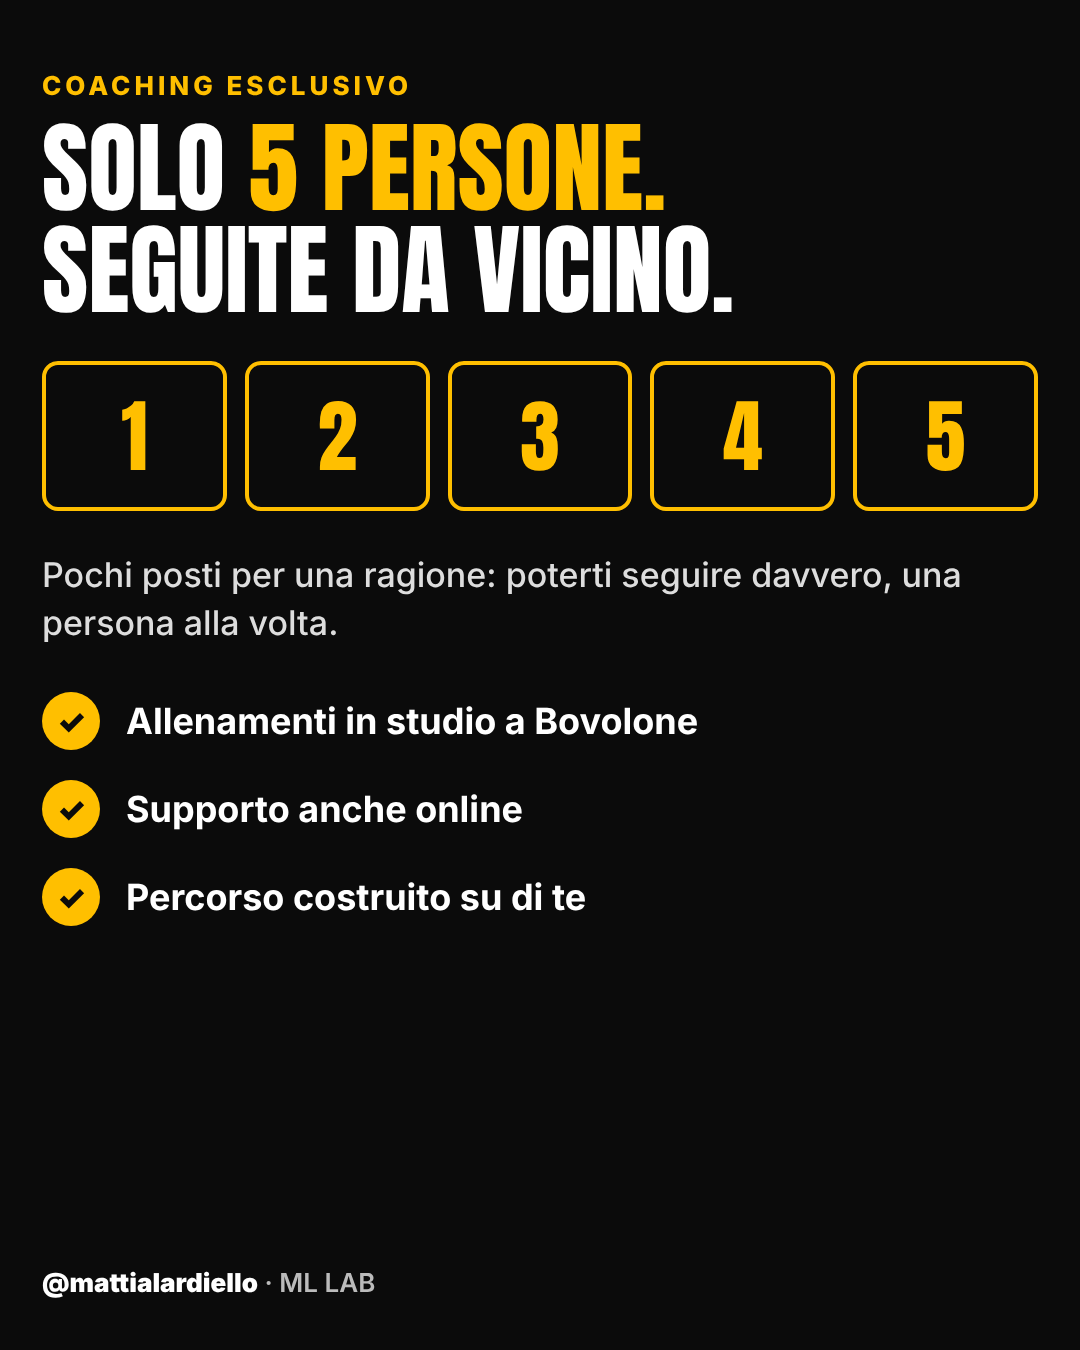
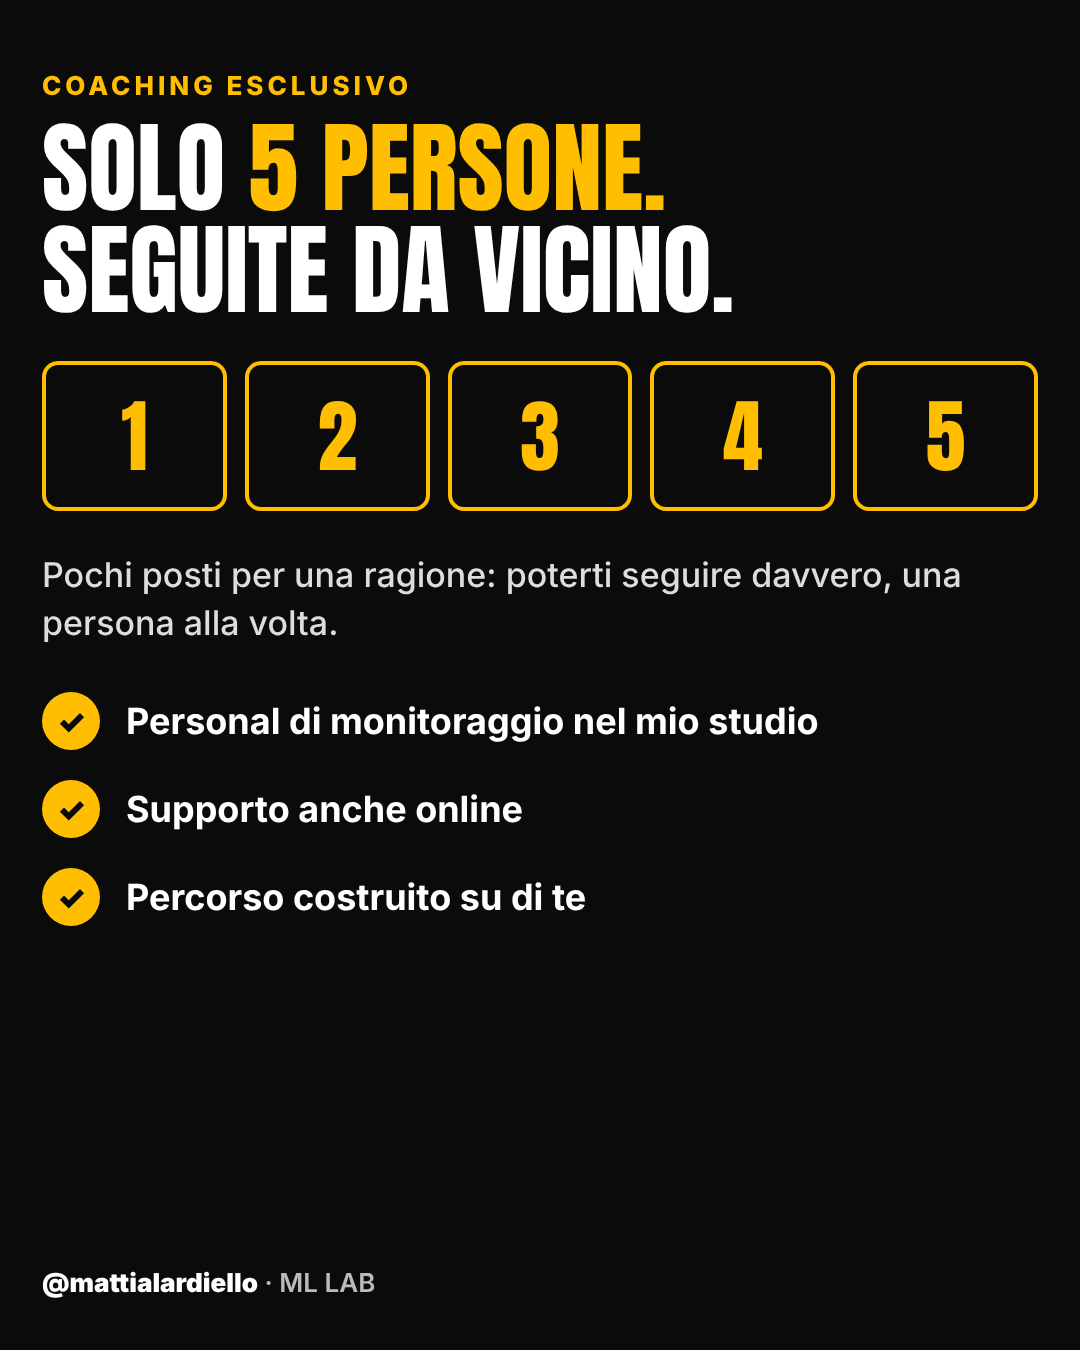
Lancio coaching: personal di monitoraggio in studio
Claude-Session: https://claude.ai/code/session_014pNAwoV69TZpDWEUzr7pF6

Changed region(s): [[0.1222, 0.5289, 0.7639, 0.56]]

diff --git a/contenuti-instagram/README.md b/contenuti-instagram/README.md
@@ -148,7 +148,7 @@ Nei DM / nel modulo indicare chiaramente che la consulenza è a pagamento, prima
 >
 > 3 clienti. 3 percorsi. Nessuna scheda uguale.
 > Ed è per questo che apro il mio nuovo **coaching esclusivo: solo 5 posti.** 🔒
-> Pochi posti per una ragione: seguirti davvero, una persona alla volta. In studio a Bovolone e anche online, con un percorso costruito su di te.
+> Pochi posti per una ragione: seguirti davvero, una persona alla volta. Personal di monitoraggio nel mio studio a Bovolone, supporto anche online e un percorso costruito su di te.
 >
 > **Cerco 5 persone che vogliono realmente mettersi in gioco e cambiare.**
 > 1⃣ Commenta **RIPARTO** qui sotto: ti scrivo io in DM con il modulo
